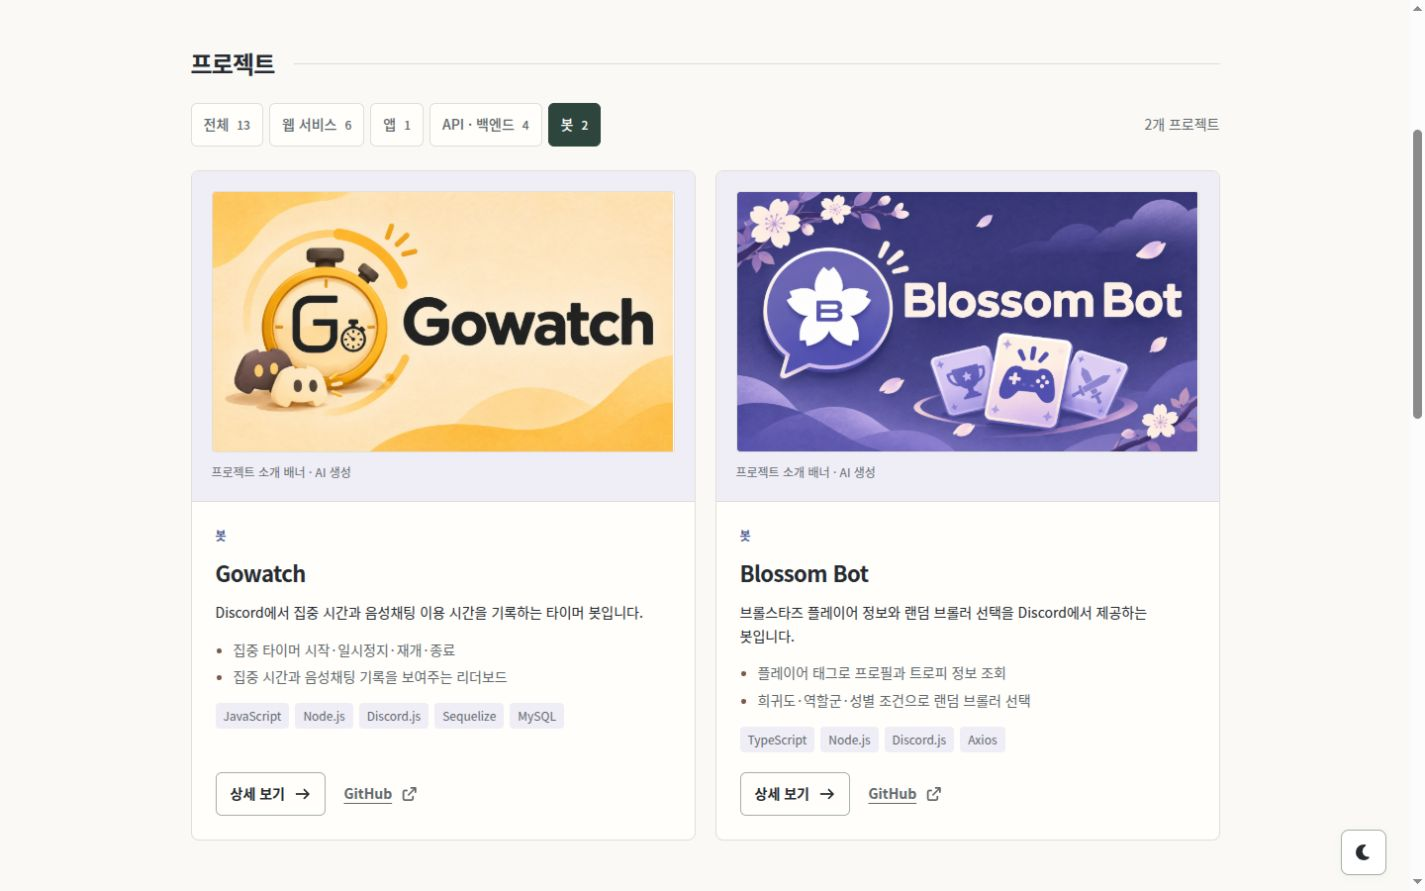
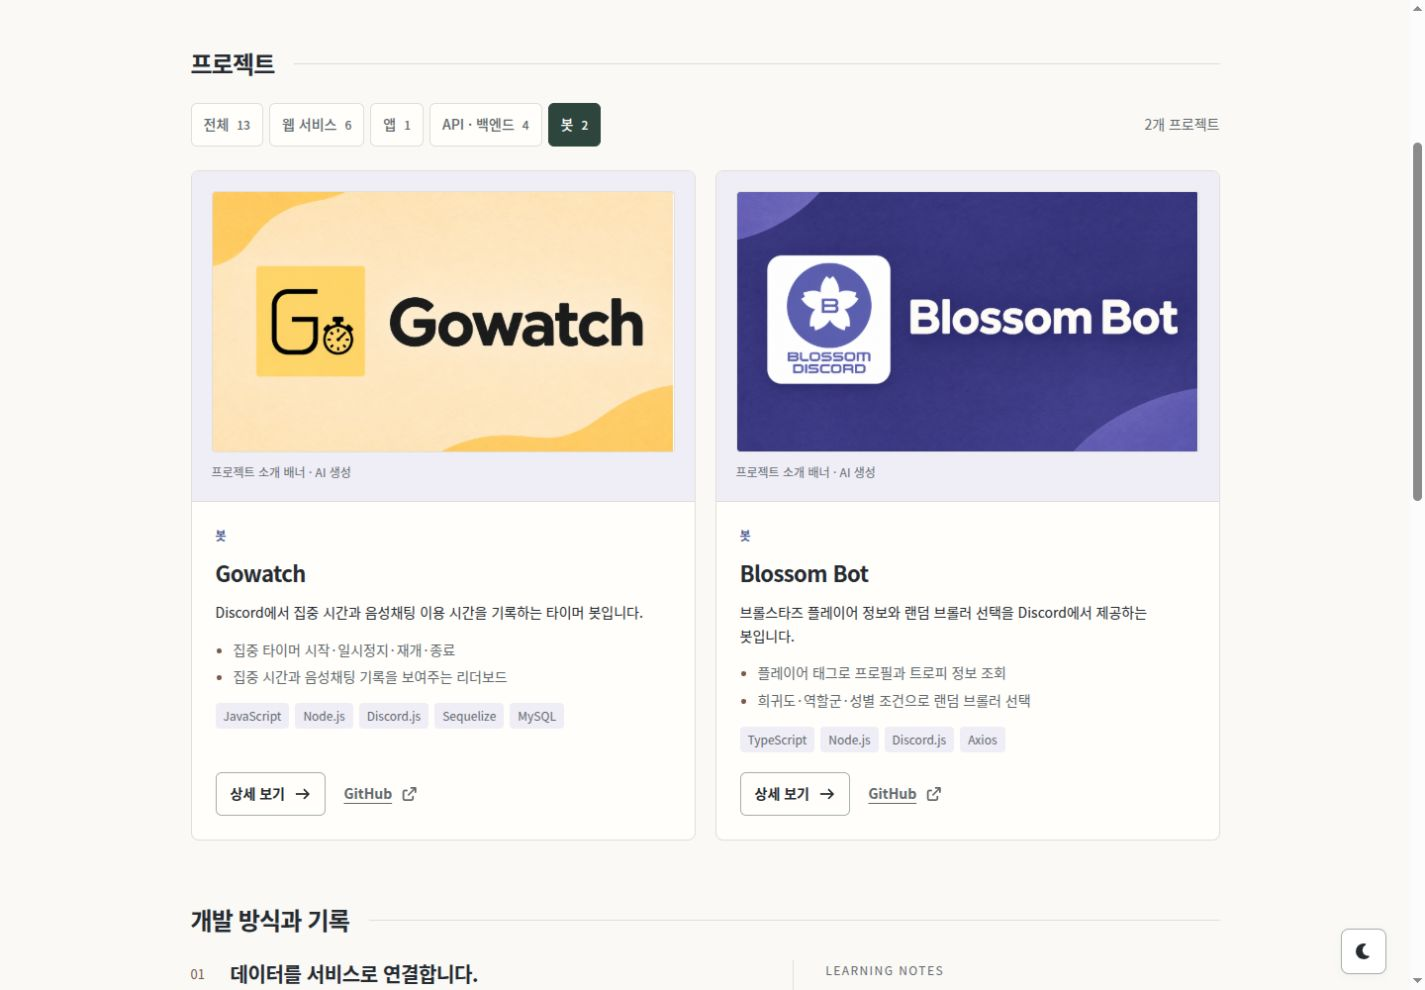
design: 아이콘을 배치한 프로젝트 배너 적용

diff --git a/src/common/data/project-experiments.ts b/src/common/data/project-experiments.ts
@@ -209,7 +209,7 @@ export const experimentProjects: PortfolioProject[] = [
     title: 'Gowatch',
     category: 'bot',
     banner: gowatchBanner,
-    bannerAlt: '노란 스톱워치와 G 심볼을 담은 Gowatch 집중 타이머 배너',
+    bannerAlt: '노란 바탕의 G·스톱워치 아이콘과 Gowatch 이름을 나란히 배치한 소개 배너',
     bannerCaption: '프로젝트 소개 배너 · AI 생성',
     image: gowatchLogo,
     imageAlt: '노란 바탕에 타이머 모양을 더한 Gowatch 봇 로고',
@@ -265,7 +265,7 @@ export const experimentProjects: PortfolioProject[] = [
     title: 'Blossom Bot',
     category: 'bot',
     banner: blossomBotBanner,
-    bannerAlt: '보라색 벚꽃 B 심볼과 게임 카드를 담은 Blossom Bot 배너',
+    bannerAlt: '벚꽃 B 아이콘과 Blossom Bot 이름을 나란히 배치한 보라색 소개 배너',
     bannerCaption: '프로젝트 소개 배너 · AI 생성',
     image: blossomBotLogo,
     imageAlt: '보라색 바탕의 벚꽃과 B 문양으로 구성한 Blossom Discord 봇 로고',

diff --git a/src/common/data/project-catalog.ts b/src/common/data/project-catalog.ts
@@ -193,7 +193,7 @@ export const projects: PortfolioProject[] = [
     title: '산등성이',
     category: 'app',
     banner: mountainBanner,
-    bannerAlt: '웃는 해와 초록 산길, 산등성이 이름을 담은 소개 배너',
+    bannerAlt: '웃는 해와 산 아이콘 옆에 산등성이 이름을 배치한 소개 배너',
     bannerCaption: '프로젝트 소개 배너 · AI 생성',
     summary:
       '주변 산과 날씨, 지역별 산불 위험 예보를 지도에서 확인하는 Flutter 앱입니다.',

diff --git a/docs/design/portfolio-redesign.md b/docs/design/portfolio-redesign.md
@@ -146,3 +146,5 @@ Laetus 응답 / 응답 준비 상태
 ## 소개 배너 후속 적용
 
 2026-11-07 후속 요청으로 Chat Laetus·UNINOTE·산등성이·Gowatch·Blossom Bot의 배너를 제작했습니다. 다섯 PNG의 원본 크기는 1672×941px로 같으며 목록은 기존 16:9 영역을 유지합니다. 실제 화면과 로고는 상세에 보존했습니다. 배너 파일, 프롬프트, 저장소 README 반영과 검증 결과는 [생성 배너 기록](generated-banners.md)에 정리합니다.
+
+같은 날 최종 요청에 따라 산등성이·Gowatch·Blossom Bot의 배너를 기존 아이콘을 참조한 아이콘과 프로젝트명 중심 구성으로 교체했습니다. 왼쪽 아이콘과 오른쪽 이름을 나란히 배치하고 각 프로젝트의 색상을 사용했으며, 세 파일 모두 1672×941px를 유지합니다. 대체 텍스트와 배너 제작 설명도 이 구성에 맞춰 갱신했습니다.
